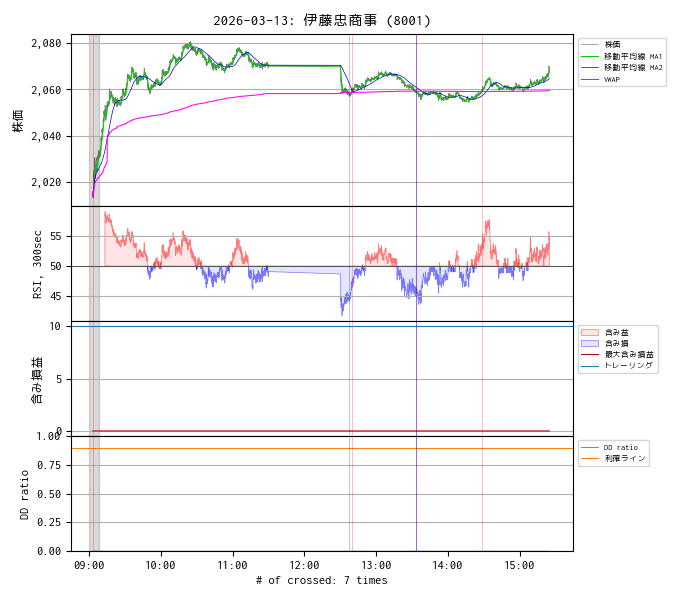
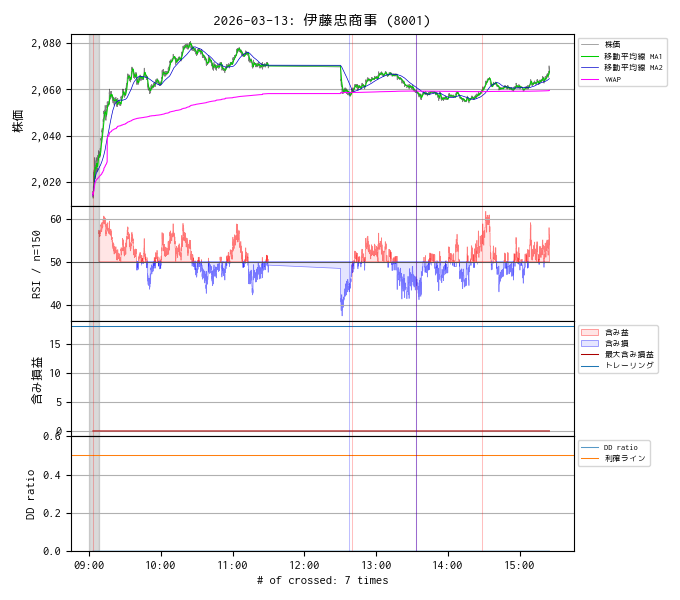
update

diff --git a/modules/technical.py b/modules/technical.py
@@ -156,64 +156,6 @@ class VWAP:
         return self.vwap
 
 
-class RSI_OLD:
-    def __init__(self, window_size: int):
-        self.window_size = window_size
-        self.rsi = 50.0
-        self.prev_rsi = 50.0
-        self.prev_value = None
-        self.avg_gain = None
-        self.avg_loss = None
-        # 初期化フェーズ用
-        self.init_gain_sum = 0.0
-        self.init_loss_sum = 0.0
-        self.init_count = 0
-        self.alpha = 1.0 / window_size
-
-    def clear(self):
-        self.__init__(self.window_size)
-
-    def getValue(self) -> float:
-        return self.rsi
-
-    def getSlope(self) -> float:
-        return self.rsi - self.prev_rsi
-
-    def update(self, value: float) -> float:
-        if self.prev_value is None:
-            self.prev_value = value
-            return self.rsi
-
-        change = value - self.prev_value
-        gain = max(change, 0.0)
-        loss = max(-change, 0.0)
-
-        # 初期 SMA フェーズ
-        if self.avg_gain is None:
-            self.init_gain_sum += gain
-            self.init_loss_sum += loss
-            self.init_count += 1
-            if self.init_count == self.window_size:
-                self.avg_gain = self.init_gain_sum / self.window_size
-                self.avg_loss = self.init_loss_sum / self.window_size
-        else:
-            # Wilder smoothing (指数平滑化の標準形)
-            self.avg_gain += self.alpha * (gain - self.avg_gain)
-            self.avg_loss += self.alpha * (loss - self.avg_loss)
-
-        # RSI 計算
-        self.prev_rsi = self.rsi
-        if self.avg_gain is not None:
-            if self.avg_loss == 0.0:
-                self.rsi = 100.0
-            else:
-                rs = self.avg_gain / self.avg_loss
-                self.rsi = 100.0 - 100.0 / (1.0 + rs)
-
-        self.prev_value = value
-        return self.rsi
-
-
 class RSI:
     def __init__(self, window_size: int):
         self.window_size = window_size
@@ -227,7 +169,7 @@ class RSI:
         self.init_loss_sum = 0.0
         self.init_count = 0
         self.alpha = 1.0 / window_size
-        self.one_minus_alpha = 1.0 - self.alpha  # 事前計算
+        self.one_minus_alpha = 1.0 - self.alpha
 
     def clear(self):
         self.__init__(self.window_size)
@@ -245,7 +187,6 @@ class RSI:
 
         change = value - self.prev_value
 
-        # max()を2回呼ぶより条件分岐の方が高速
         if change > 0.0:
             gain = change
             loss = 0.0
@@ -265,18 +206,15 @@ class RSI:
                 self.avg_gain = self.init_gain_sum / self.window_size
                 self.avg_loss = self.init_loss_sum / self.window_size
         else:
-            # Wilder smoothing - 事前計算した値を使用
+            # Wilder smoothing
             self.avg_gain = self.one_minus_alpha * self.avg_gain + self.alpha * gain
             self.avg_loss = self.one_minus_alpha * self.avg_loss + self.alpha * loss
 
-        # RSI 計算
+        # RSI 計算（簡略版）
         self.prev_rsi = self.rsi
         if self.avg_gain is not None:
-            if self.avg_loss == 0.0:
-                self.rsi = 100.0 if self.avg_gain > 0.0 else 50.0
-            else:
-                rs = self.avg_gain / self.avg_loss
-                self.rsi = 100.0 - 100.0 / (1.0 + rs)
+            total = self.avg_gain + self.avg_loss
+            self.rsi = 100.0 * self.avg_gain / total if total > 0.0 else 50.0
 
         self.prev_value = value
         return self.rsi

diff --git a/funcs/plot.py b/funcs/plot.py
@@ -509,7 +509,7 @@ def plot_rsi(ax: plt.Axes, df: DataFrame, dict_setting: dict[str, Any]):
 
     ax.axhline(y=50, linewidth=0.75, color="black", alpha=0.5)
 
-    ax.set_ylabel(f"RSI, {period}sec")
+    ax.set_ylabel(f"RSI / n={period}")
     # ax.legend(bbox_to_anchor=(1, 1), loc="upper left", borderaxespad=0.5, fontsize=6)
 
 
